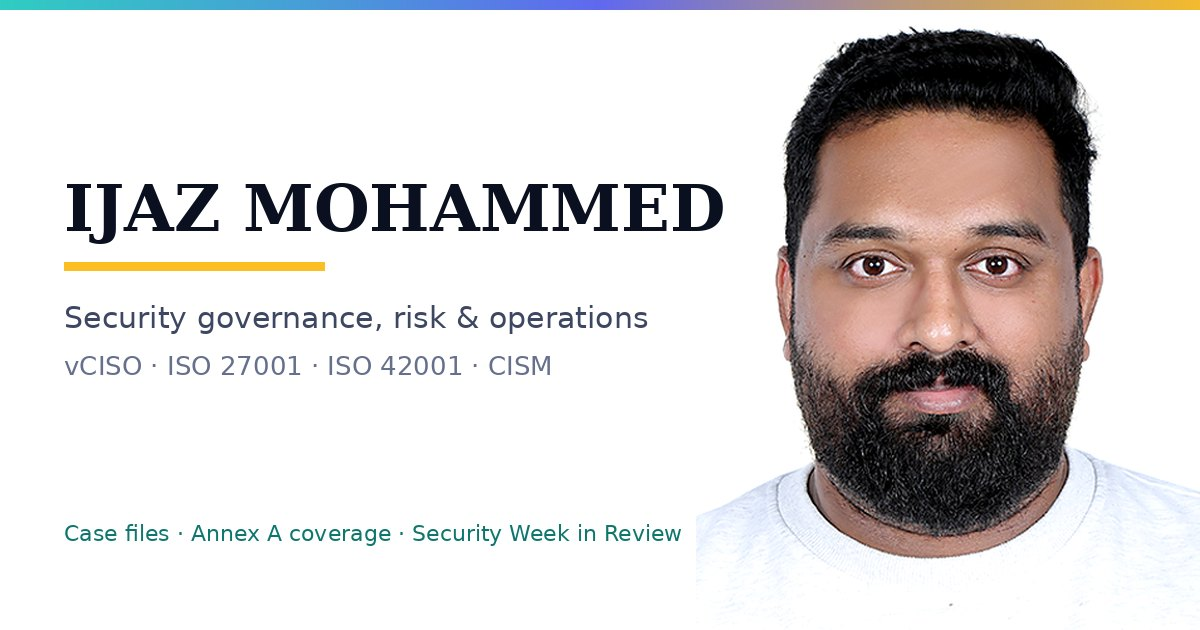
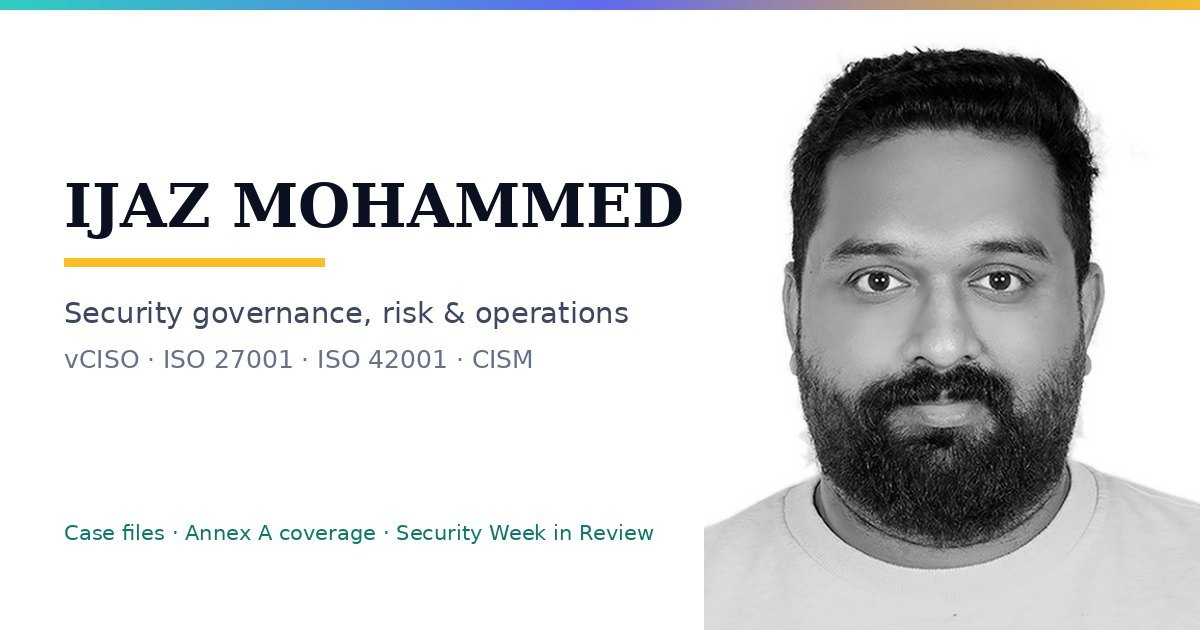
Black and white portrait
Claude-Session: https://claude.ai/code/session_016zFR5vWDQSDBXWEciqvpMe

Changed region(s): [[0.0617, 0.0302, 1.0, 1.0], [0.0308, 0.2714, 0.6167, 0.4524], [0.0308, 0.4825, 0.555, 0.6032]]

diff --git a/index.html b/index.html
@@ -62,7 +62,7 @@
         </div>
         <div class="hero-side rise d3">
         <figure class="portrait">
-          <img src="assets/ijaz-mohammed.jpg" width="401" height="501" alt="Portrait of Ijaz Mohammed">
+          <img src="assets/ijaz-mohammed.jpg" width="802" height="1002" alt="Black and white portrait of Ijaz Mohammed">
           <figcaption><span>Ijaz Mohammed</span><span>Abu Dhabi</span></figcaption>
         </figure>
         <dl class="register" aria-label="At a glance">
